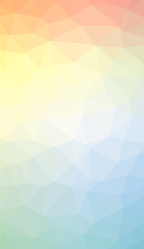
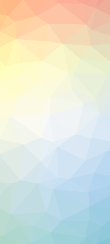
add background picture

diff --git a/src/components/Header.js b/src/components/Header.js
@@ -11,6 +11,7 @@ export default function Header() {
         <ul className="navbar_links">
           <li className="navbar_item">
             <a href="/" className="navbar_link">Accueil</a>
+            <Link to="/">Home</Link>
           </li>
           <li className="navbar_item">
             <a href="/" className="navbar_link">Catégorie</a>
@@ -29,6 +30,3 @@ export default function Header() {
     </header>
   );
 }
-
-//  <Link to="/">Home</Link>
- 

diff --git a/src/App.css b/src/App.css
@@ -4,9 +4,8 @@
 * {
   margin: 0;
   padding: 0;
-  background-image:url("./assets/backdesktop.png");
+  background-image:url("./assets/backmobile.png");
   background-size: cover;
-  background-position: center center;
   background-repeat: no-repeat;
 }
 
